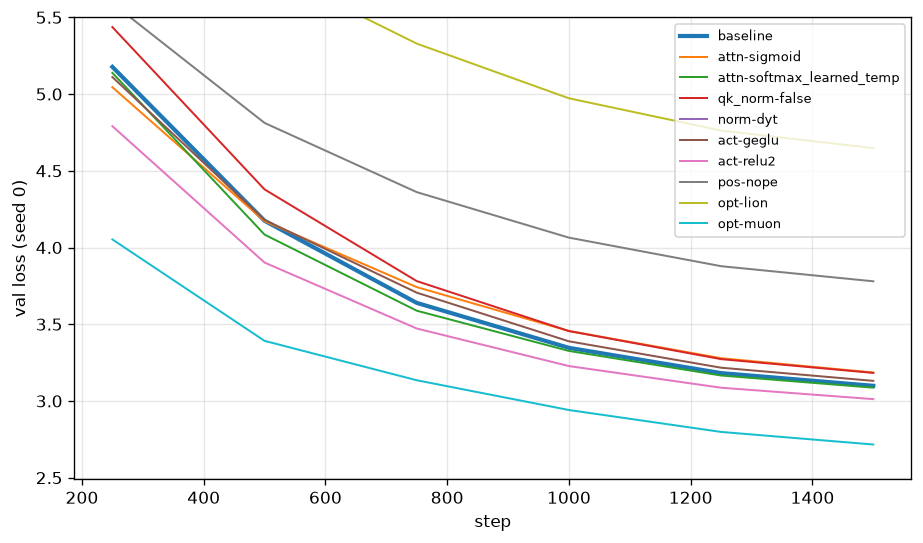
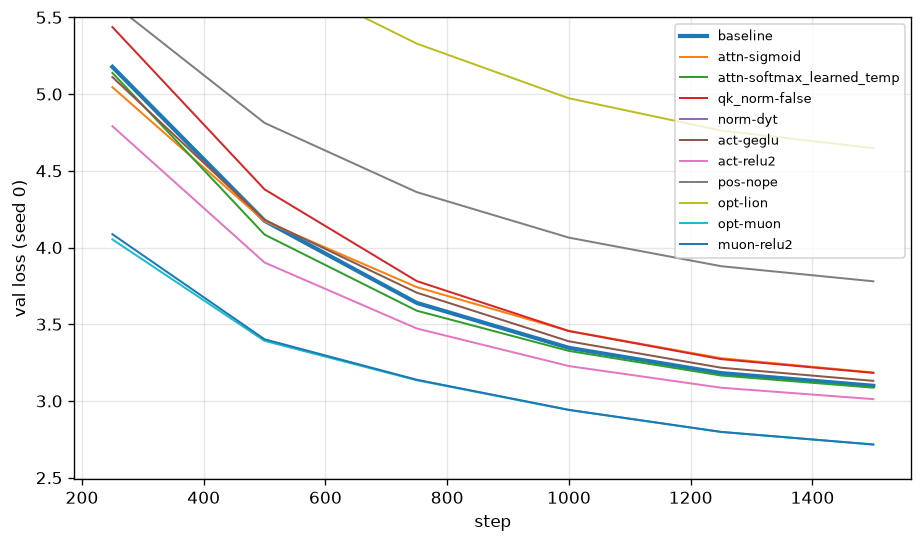
Batch 2: Muon+ReLU2 combo

diff --git a/results/REPORT.md b/results/REPORT.md
@@ -4,13 +4,14 @@ Menor bpb (bits por byte de validación) = mejor.
 
 | # | variante | bpb media | ± desv | Δ vs base | semillas | params | tok/s | VRAM GB |
 |---|---|---|---|---|---|---|---|---|
-| 1 | opt-muon | 1.1035 | 0.0001 | -12.55% | 2 | 13.23M | 52324 | 2.19 |
-| 2 | act-relu2 | 1.2243 | 0.0016 | -2.98% | 2 | 13.38M | 47548 | 2.49 |
-| 3 | attn-softmax_learned_temp | 1.2546 | 0.0000 | -0.57% | 1 | 13.23M | 27407 | 3.74 |
-| 4 | baseline | 1.2619 | 0.0035 | +0.00% | 2 | 13.23M | 48045 | 2.23 |
-| 5 | act-geglu | 1.2669 | 0.0218 | +0.40% | 3 | 13.23M | 50786 | 2.23 |
-| 6 | attn-sigmoid | 1.2802 | 0.0183 | +1.46% | 2 | 13.23M | 32749 | 3.14 |
-| 7 | qk_norm-false | 1.3124 | 0.0264 | +4.00% | 3 | 13.23M | 58645 | 1.98 |
-| 8 | pos-nope | 1.5444 | 0.0141 | +22.39% | 3 | 13.23M | 59631 | 2.23 |
-| 9 | opt-lion | 1.8803 | 0.0100 | +49.01% | 2 | 13.23M | 57733 | 2.18 |
-| 10 | norm-dyt | 2.9300 | 0.0000 | +132.20% | 2 | 13.23M | 58410 | 2.24 |
+| 1 | opt-muon | 1.1023 | 0.0021 | -13.36% | 3 | 13.23M | 52434 | 2.19 |
+| 2 | muon-relu2 | 1.1041 | 0.0006 | -13.22% | 3 | 13.38M | 37076 | 2.44 |
+| 3 | act-relu2 | 1.2239 | 0.0014 | -3.80% | 3 | 13.38M | 49475 | 2.49 |
+| 4 | attn-sigmoid | 1.2591 | 0.0388 | -1.03% | 3 | 13.23M | 33136 | 3.14 |
+| 5 | attn-softmax_learned_temp | 1.2646 | 0.0143 | -0.60% | 3 | 13.23M | 28472 | 3.74 |
+| 6 | act-geglu | 1.2669 | 0.0218 | -0.42% | 3 | 13.23M | 50786 | 2.23 |
+| 7 | baseline | 1.2723 | 0.0182 | +0.00% | 3 | 13.23M | 50841 | 2.23 |
+| 8 | qk_norm-false | 1.3124 | 0.0264 | +3.16% | 3 | 13.23M | 58645 | 1.98 |
+| 9 | pos-nope | 1.5444 | 0.0141 | +21.39% | 3 | 13.23M | 59631 | 2.23 |
+| 10 | opt-lion | 1.8953 | 0.0270 | +48.97% | 3 | 13.23M | 57861 | 2.18 |
+| 11 | norm-dyt | 2.9300 | 0.0000 | +130.30% | 3 | 13.23M | 62077 | 2.24 |
